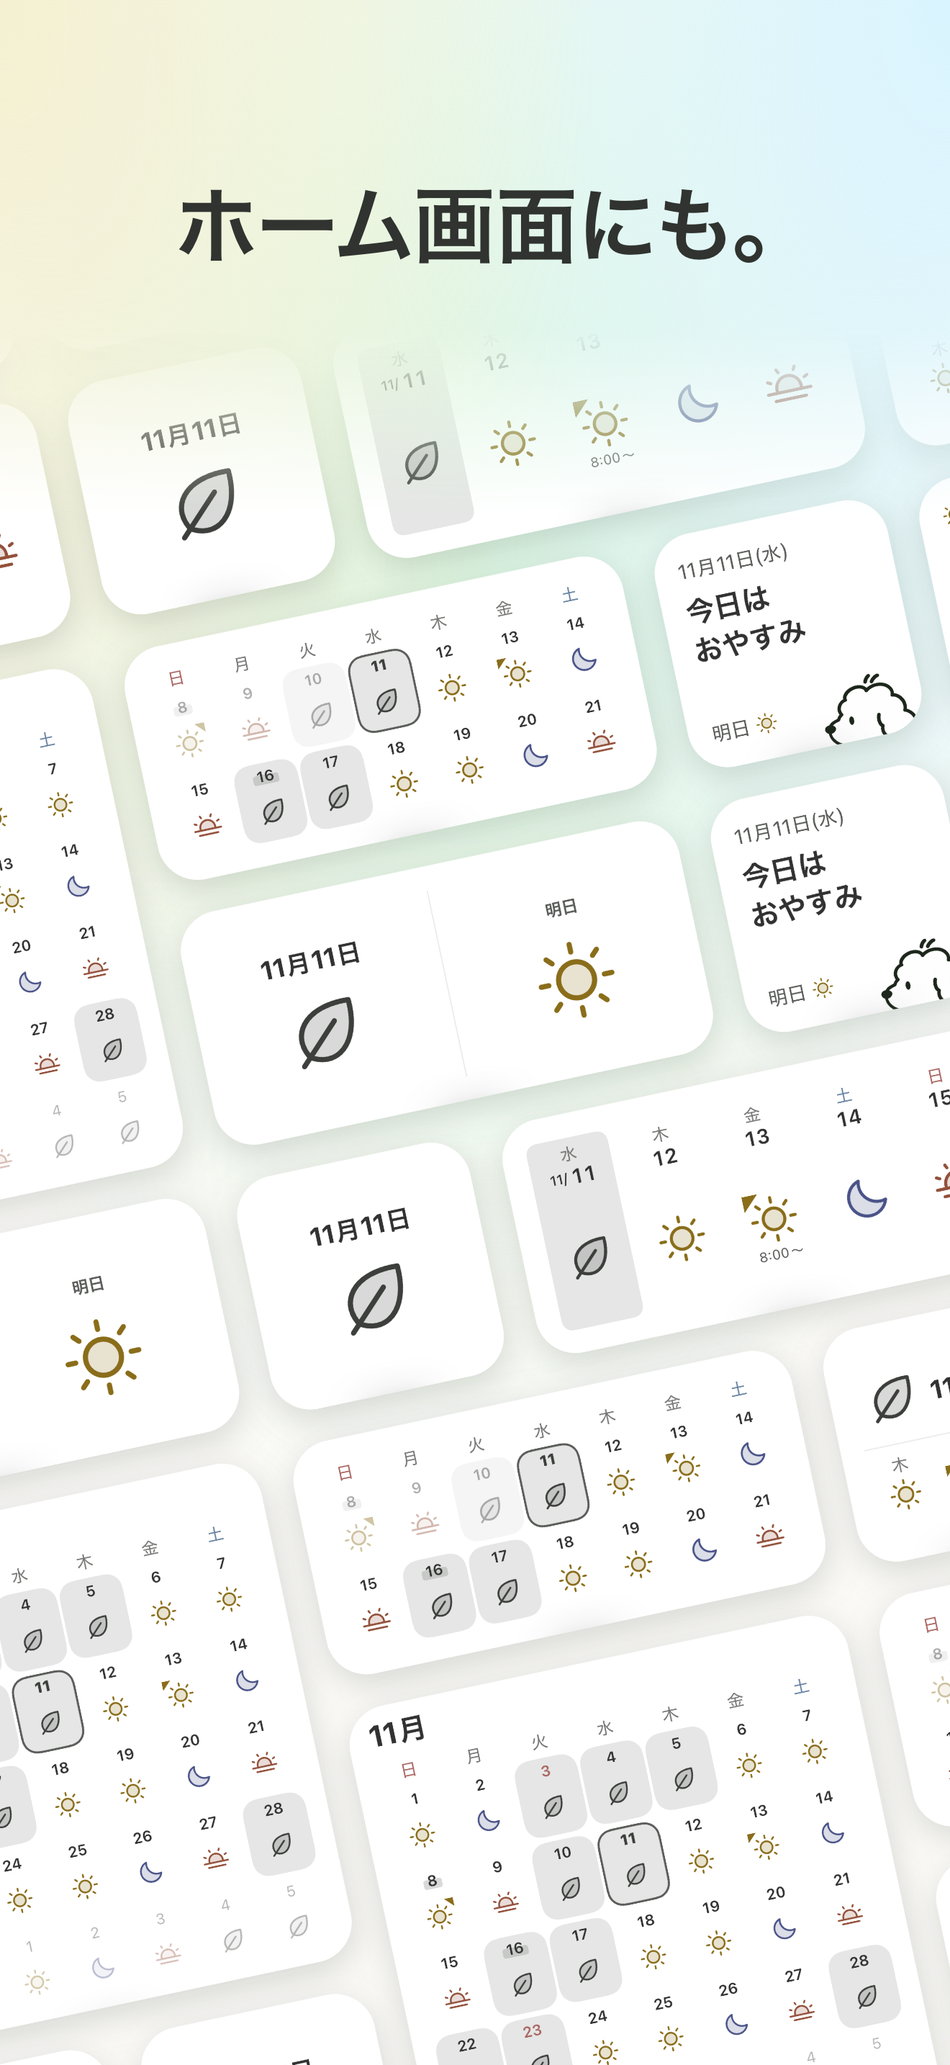
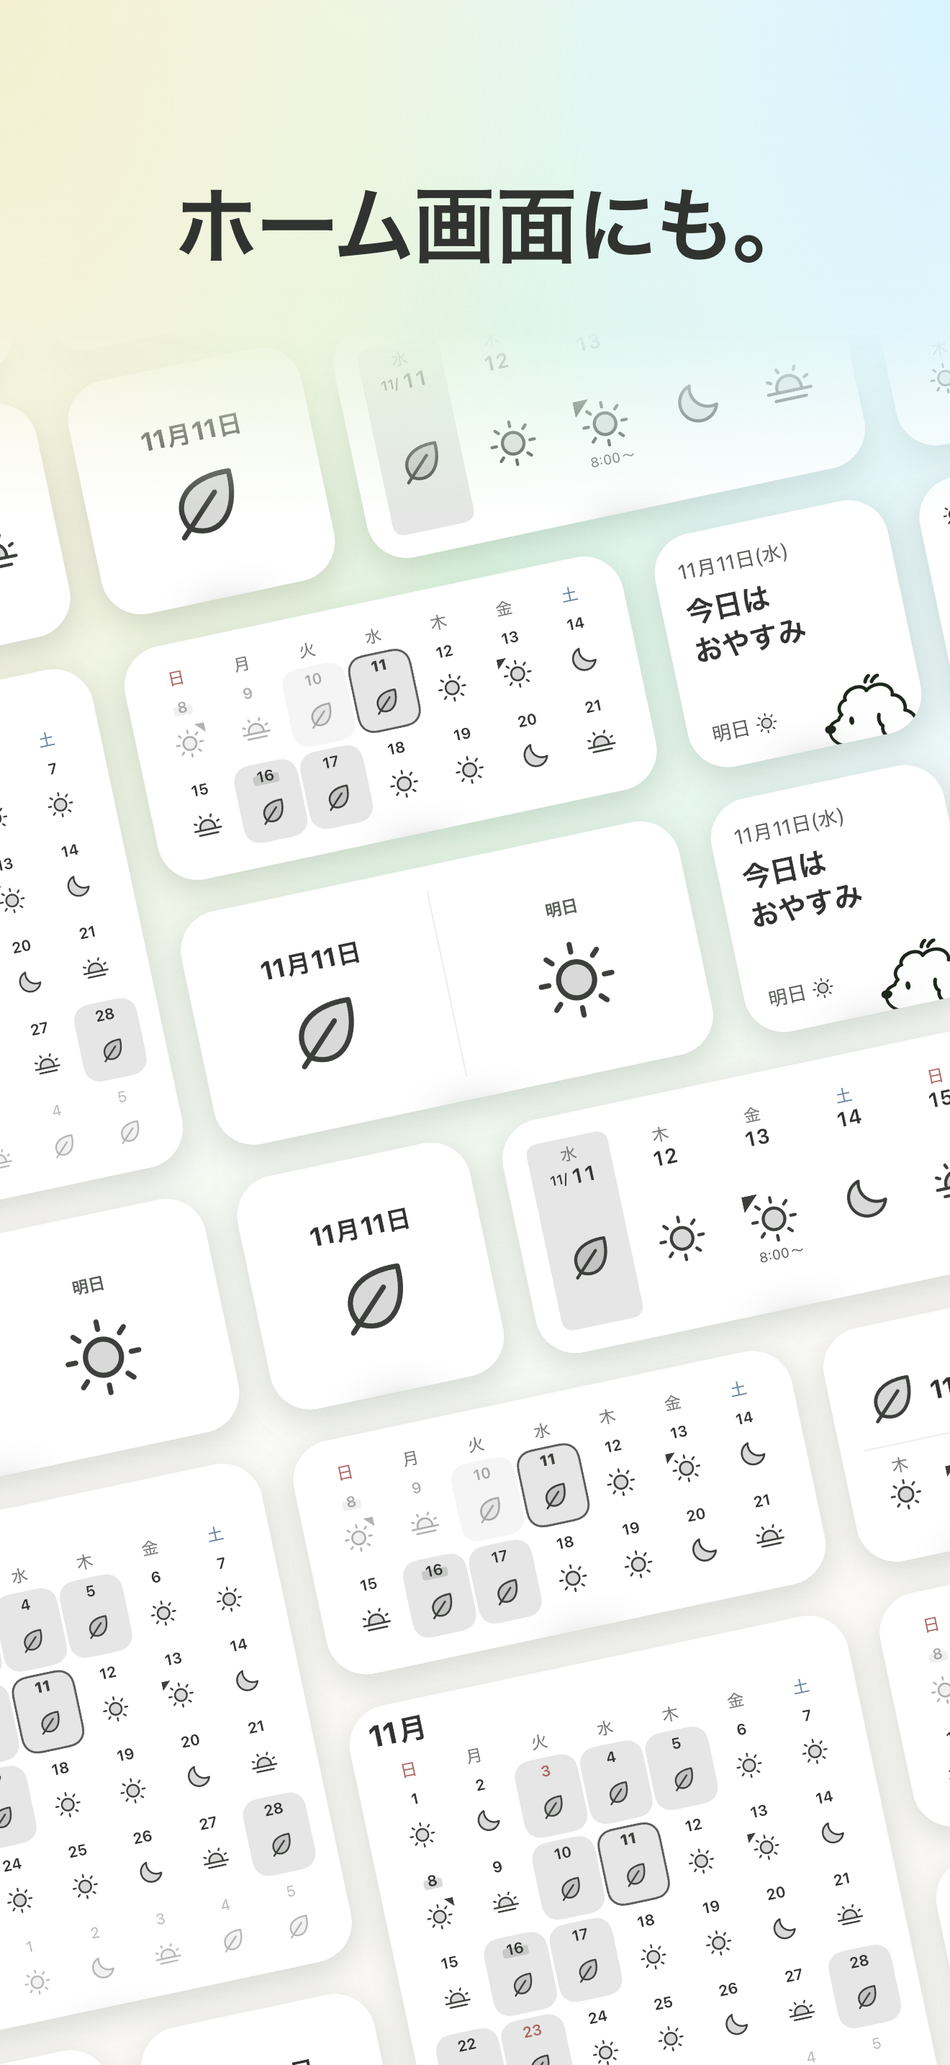
Store screenshots: Google Play's seven pictures beside the App Store's, the wall and the 墨 half in ワントーン, the clock the chat's (#806)
The two platforms' screens go by one set of names, so store-shots.ts names
each shot once, and `mise run store:screenshots` photographs Android's on
the emulator ANDROID_SERIAL names before iOS's. The status bar shows a full
battery off the charger and the seed's time two minutes on, so the chat's
lines and the clock agree without a message's time being made up.

diff --git a/apps/ios/Pochical/PochicalUITests/StoreScreenshotTests.swift b/apps/ios/Pochical/PochicalUITests/StoreScreenshotTests.swift
@@ -3,9 +3,10 @@ import XCTest
 /// The screens the stores' screenshots are drawn from (#806), photographed
 /// in the order the app is walked rather than the stores': the sample
 /// month and 端末カレンダーに追加; 職場のみんな's 一覧 and 全体チャット,
-/// joined as 佐藤; the month again in 墨; the widgets in 墨, each put on
-/// the Home Screen in turn; and last, as it takes days out of the month,
-/// ポチポチ入力 halfway through it. Each is kept as the
+/// joined as 佐藤; the month again in 墨 with シフトの色 at ワントーン, in
+/// black and white; the widgets so too, each put on the Home Screen in
+/// turn; and last, as it takes days out of the month and puts the テーマ
+/// and the colors back, ポチポチ入力 halfway through it. Each is kept as the
 /// file `packages/prototype/src/lib/store-shots.ts` names. Run by
 /// `mise run store:shots:ios`, against the local server it seeds; skipped
 /// without it.
@@ -69,7 +70,7 @@ final class StoreScreenshotTests: XCTestCase {
   @MainActor
   func test3Sumi() throws {
     launch()
-    pick(theme: "墨")
+    pick(theme: "墨", colors: "ワントーン")
     snap("07-calendar-sumi", of: XCUIScreen.main, into: raw)
   }
 
@@ -97,13 +98,13 @@ final class StoreScreenshotTests: XCTestCase {
     }
   }
 
-  /// ポチポチ入力 halfway through the month, in the テーマ the app starts
-  /// with: the sample month's days from the 16th taken out, as they are
+  /// ポチポチ入力 halfway through the month, in the テーマ and the colors
+  /// the app starts with: the sample month's days from the 16th taken out, as they are
   /// before they are entered, and the 16th the day to enter.
   @MainActor
   func test5Entry() throws {
     launch()
-    pick(theme: "ポチカル")
+    pick(theme: "ポチカル", colors: "色分け")
     app.buttons["ポチポチ入力"].tap()
     let month = Calendar.current.component(.month, from: .now)
     let last = Calendar.current.range(of: .day, in: .month, for: .now)!.upperBound - 1
@@ -135,18 +136,20 @@ final class StoreScreenshotTests: XCTestCase {
       .matching(NSPredicate(format: "label == %@", "入力する日付：\(month)月\(day)日")).firstMatch
   }
 
-  /// Picks the テーマ named `theme` in 設定's スタイル, and comes back to
-  /// the calendar in it.
-  @MainActor private func pick(theme: String) {
+  /// Picks the テーマ named `theme` and the シフトの色 named `colors` in
+  /// 設定's スタイル, and comes back to the calendar in them.
+  @MainActor private func pick(theme: String, colors: String) {
     app.tabBars.buttons["設定"].tap()
     let style = app.collectionViews.firstMatch.buttons
       .matching(NSPredicate(format: "label BEGINSWITH 'スタイル'")).firstMatch
     XCTAssertTrue(style.waitForExistence(timeout: 5), "設定 lists スタイル")
     style.tap()
-    let tile = app.buttons[theme]
-    for _ in 0..<4 where !(tile.exists && tile.isHittable) { app.swipeUp() }
-    tile.tap()
-    XCTAssertTrue(tile.isSelected, "\(theme) is the テーマ")
+    for choice in [theme, colors] {
+      let tile = app.buttons[choice]
+      for _ in 0..<4 where !(tile.exists && tile.isHittable) { app.swipeUp() }
+      tile.tap()
+      XCTAssertTrue(tile.isSelected, "\(choice) is picked")
+    }
     app.navigationBars["スタイル"].buttons.firstMatch.tap()
     app.tabBars.buttons["カレンダー"].tap()
     XCTAssertTrue(app.buttons["ポチポチ入力"].waitForExistence(timeout: 5), "the calendar shows")

diff --git a/apps/android/app/src/androidTest/kotlin/app/pochical/StoreScreenshots.kt b/apps/android/app/src/androidTest/kotlin/app/pochical/StoreScreenshots.kt
@@ -25,7 +25,9 @@ import org.junit.runner.RunWith
 /**
  * The screens the stores' screenshots are made of (#806), photographed as they are on an emulator:
  * the sample month as a new user's, who joins the group tools/store-screenshots/seed.ts made as
- * 佐藤. Run by `mise run store:shots:android` (tools/store-screenshots/android.sh), which sets the
+ * 佐藤, each kept under the name packages/prototype/src/lib/store-shots.ts gives it. The last is the
+ * month in 墨 with シフトの色 at ワントーン, in black and white, so every screen before it is in the
+ * テーマ and the colors the app starts with. Run by `mise run store:shots:android` (tools/store-screenshots/android.sh), which sets the
  * emulator up, names the invitation (the argument `invite`) and takes the PNGs from where Gradle
  * pulls them (`additionalTestOutputDir`); skipped in any other run.
  */
@@ -51,7 +53,6 @@ class StoreScreenshots {
     val calendar = By.descContains("、夜勤")
     device.find(calendar)
     photograph("02-calendar")
-    photograph("07-look-default")
 
     // ポチポチ入力, on today rather than the month's first day.
     val today = LocalDate.now().let { "${it.monthValue}月${it.dayOfMonth}日" }
@@ -74,7 +75,7 @@ class StoreScreenshots {
     device.tap(By.text("参加する"), By.text("全体チャット"))
     // The table once the group shows 佐藤's shifts too, sent from this device.
     device.tap(By.text("月で見る"), By.desc(Pattern.compile(".*佐藤：(日勤|夜勤|明け|休み).*")))
-    photograph("05-group")
+    photograph("05-group-shifts")
     device.back(By.text("一覧"))
 
     // The chat from its first line, the words about the mobile battery in the middle.
@@ -89,10 +90,10 @@ class StoreScreenshots {
 
     device.tap(By.text("設定"), By.text("スタイル"))
     device.tap(By.text("スタイル"), By.text("テーマ"))
-    device.tap(By.text("墨"), By.checked(true).hasChild(By.text("墨")))
+    for (choice in listOf("墨", "ワントーン")) device.tap(By.text(choice), By.checked(true).hasChild(By.text(choice)))
     launch()
     device.find(calendar)
-    photograph("07-look-sumi")
+    photograph("07-calendar-sumi")
   }
 
   /** The app opened anew on its calendar, with a debug build's [options] (LaunchOptions). */

diff --git a/packages/prototype/src/lib/store-shots.ts b/packages/prototype/src/lib/store-shots.ts
@@ -1,6 +1,7 @@
 // The stores' screenshots (#806): each is a screen of the real app,
 // photographed by its platform's own UI test into
-// `.build/store-screenshots/<store>` under the name `raw` gives here, and
+// `.build/store-screenshots/<store>` under the name `raw` gives here, the
+// same on both platforms, and
 // drawn on the site's sky under its headline at the store's size by
 // apps/design's /_render/store-shot, which `pnpm --dir apps/design
 // image:store` photographs into `store/screenshots/<store>`.
@@ -9,9 +10,14 @@
 // it takes for an iPhone with Dynamic Island (large display), an iPhone
 // Pro Max's own screen, which it scales down for the smaller iPhones:
 // https://developer.apple.com/help/app-store-connect/reference/app-information/screenshot-specifications
+// Google Play's is the 9:16 it asks of the pictures it features, no side
+// more than twice the other:
+// https://support.google.com/googleplay/android-developer/answer/9866151
+// `widgetRow` is how tall a Home Screen's cell is in its widths, by the
+// platform's small widget (Android's SMALL, WidgetParts.kt).
 export const STORES = {
-  android: { height: 1920, width: 1080 },
-  ios: { height: 2868, width: 1320 },
+  android: { height: 1920, widgetRow: 202 / 179, width: 1080 },
+  ios: { height: 2868, widgetRow: 1, width: 1320 },
 } as const;
 
 export type StoreId = keyof typeof STORES;
@@ -39,7 +45,10 @@ type StoreShot = { headline: readonly string[]; name: string } & (
 );
 
 // The shots in the stores' order, each headline a line an entry. They speak
-// to people on night and rotating shifts.
+// to people on night and rotating shifts. The first three are screens,
+// which Google Play asks its first pictures to show the app by. The wall
+// and the last shot's second screen are in 墨 with シフトの色 at ワントーン,
+// in black and white; every other screen is as the app starts.
 export const STORE_SHOTS = [
   {
     headline: ["勤務表を見ながら、", "ポチポチ。"],

diff --git a/apps/design/src/routes/_tool/[_]render/store-shot.tsx b/apps/design/src/routes/_tool/[_]render/store-shot.tsx
@@ -51,7 +51,7 @@ export const Route = createFileRoute("/_tool/_render/store-shot")({
 
 // Every length but the headline's room is in --u, a hundredth of the
 // picture's width, so each store's picture is laid out alike at its size.
-// A widget's cell on the wall, in them.
+// The width of a widget's cell on the wall, in them.
 const WIDGET_CELL = "calc(var(--u) * 25)";
 
 const styles = {
@@ -159,7 +159,7 @@ function StoreShotPage() {
   if (shot === undefined) {
     return <p>No shot is named {name}.</p>;
   }
-  const { height, width } = STORES[store];
+  const { height, widgetRow, width } = STORES[store];
   return (
     <div
       className={styles.root}
@@ -173,7 +173,11 @@ function StoreShotPage() {
     >
       <PictureSky height="100%" />
       {shot.kind === "wall" && (
-        <Wall folder={shot.raw} widgets={widgets.split(",").filter(Boolean)} />
+        <Wall
+          folder={shot.raw}
+          row={widgetRow}
+          widgets={widgets.split(",").filter(Boolean)}
+        />
       )}
       <h1 className={cx(pictureTitle, styles.headline)}>
         <span>
@@ -222,7 +226,16 @@ const cellsOf = (file: string) => {
 
 // The widgets over and over, each round starting further along so the
 // same two are not neighbors again, until the wall's cells are covered.
-function Wall({ folder, widgets }: { folder: string; widgets: string[] }) {
+// A cell is `row` times as tall as it is wide.
+function Wall({
+  folder,
+  row,
+  widgets,
+}: {
+  folder: string;
+  row: number;
+  widgets: string[];
+}) {
   let cells = 0;
   for (const file of widgets) {
     const { columns, rows } = cellsOf(file);
@@ -241,7 +254,7 @@ function Wall({ folder, widgets }: { folder: string; widgets: string[] }) {
       <div
         className={styles.wallGrid}
         style={{
-          gridAutoRows: WIDGET_CELL,
+          gridAutoRows: `calc(${WIDGET_CELL} * ${row})`,
           gridTemplateColumns: `repeat(${WALL.columns}, ${WIDGET_CELL})`,
         }}
       >

diff --git a/apps/android/app/src/test/kotlin/app/pochical/widgets/WidgetPreviewImages.kt b/apps/android/app/src/test/kotlin/app/pochical/widgets/WidgetPreviewImages.kt
@@ -11,6 +11,7 @@ import android.widget.FrameLayout
 import androidx.compose.ui.unit.DpSize
 import app.pochical.design.Theme
 import app.pochical.kit.DeviceSettings
+import app.pochical.kit.Look
 import app.pochical.kit.Week
 import java.io.File
 import java.time.LocalDate
@@ -30,7 +31,8 @@ import org.robolectric.annotation.GraphicsMode
  * - The pictures the widget picker shows of each kind before Android 15 (spec/widgets.md, In the
  *   widget gallery), as `android:previewImage`, in light and in dark (`drawable-night`):
  *   `mise run android:widget-previews`, into the app's res (WIDGET_PREVIEWS_OUT).
- * - The stores' wall of widgets (#806), each kind at each size it offers, in 墨 and light:
+ * - The stores' wall of widgets (#806), each kind at each size it offers, in 墨 with シフトの色 at ワントーン and light,
+ *   in black and white:
  *   `mise run store:shots:android`, into STORE_WIDGETS_OUT.
  */
 @RunWith(RobolectricTestRunner::class)
@@ -64,9 +66,9 @@ class WidgetPreviewImages {
     val out = System.getenv("STORE_WIDGETS_OUT")
     assumeTrue("Only when asked for, by mise run store:shots:android", out != null)
     val sizes = mapOf(SMALL to "small", MEDIUM to "medium", LARGE to "large")
-    val sumi = DeviceSettings(themeId = Theme.Sumi.id)
+    val sumi = DeviceSettings(themeId = Theme.Sumi.id, look = Look(colored = false))
     for ((name, widget) in kinds) {
-      for (size in widget.previews) draw(widget, size, sumi, dark = false, File(checkNotNull(out), "$name-${sizes.getValue(size)}.png"))
+      for (size in widget.previews) draw(widget, size, sumi, dark = false, File(checkNotNull(out), "${name.replace('_', '-')}-${sizes.getValue(size)}.png"))
     }
   }
 

diff --git a/apps/design/tests/store-screenshots.test.ts b/apps/design/tests/store-screenshots.test.ts
@@ -3,6 +3,7 @@ import path from "node:path";
 
 import {
   FEATURE_GRAPHIC,
+  HEADLINE_SHARE,
   STORE_SHOTS,
   STORES,
   storeShotFile,
@@ -11,8 +12,8 @@ import { expect, test } from "vitest";
 
 // The stores' pictures (store/) are checked in, drawn by
 // `mise run store:screenshots`: every shot of store-shots.ts has its
-// picture at the size its store asks for, without the alpha channel the
-// App Store refuses.
+// picture for each store at the size it asks for, without the alpha
+// channel the App Store refuses.
 const store = path.join(import.meta.dirname, "../../../store");
 
 // A PNG's size and whether it has an alpha channel, from its IHDR chunk,
@@ -27,8 +28,7 @@ const header = (file: string) => {
   };
 };
 
-// Android's pictures come with its screens.
-const drawn = (["ios"] as const).flatMap((id) =>
+const drawn = (["ios", "android"] as const).flatMap((id) =>
   STORE_SHOTS.map((shot) => ({
     file: path.join("screenshots", id, storeShotFile(shot.name)),
     size: STORES[id],
@@ -48,4 +48,15 @@ test.each([
     height: size.height,
     width: size.width,
   });
+});
+
+// Google Play's own asks of a screenshot, kept by the App Store's too:
+// https://support.google.com/googleplay/android-developer/answer/9866151
+test("the first three shots show the app, under a headline of a fifth at most", () => {
+  expect(STORE_SHOTS.slice(0, 3).map((shot) => shot.kind)).toEqual([
+    "screen",
+    "screen",
+    "screen",
+  ]);
+  expect(HEADLINE_SHARE).toBeLessThanOrEqual(0.2);
 });

diff --git a/apps/design/scripts/store-images.ts b/apps/design/scripts/store-images.ts
@@ -4,7 +4,7 @@ import { fileURLToPath } from "node:url";
 
 // Draws the stores' pictures (#806) from the screens each platform's UI
 // test photographed into .build/store-screenshots/<store>
-// (`mise run store:shots:ios`): each shot of @pochical/prototype's
+// (`mise run store:shots:ios`, `mise run store:shots:android`): each shot of @pochical/prototype's
 // lib/store-shots.ts from /_render/store-shot into
 // store/screenshots/<store>, and Google Play's feature graphic into
 // store/feature-graphic.png, on a dev server of its own. A store whose
@@ -63,14 +63,14 @@ await photographDevServer(
   async ({ browser, origin }) => {
     const photograph = async (
       search: Record<string, string>,
-      size: { height: number; width: number },
+      { height, width }: { height: number; width: number },
       output: string,
       raw?: string
     ) => {
       const page = await browser.newPage({
         colorScheme: "light",
         deviceScaleFactor: 1,
-        viewport: size,
+        viewport: { height, width },
       });
       if (raw !== undefined) {
         await page.route(`**${RAW_PATH}**`, async (route) => {

diff --git a/AGENTS.md b/AGENTS.md
@@ -14,7 +14,7 @@ Pochical is a monorepo: native SwiftUI (`apps/ios`) and Jetpack Compose (`apps/a
   - ライセンス's list of libraries is generated by each app's build, never checked in (spec/calendar.md, ライセンス): on iOS by LicenseList's build plugin from the resolved Swift packages' checkouts (`PLL_SOURCE_PACKAGES_PATH` names them when `-clonedSourcePackagesDirPath` moves them, as CI's `ios` job does), on Android by AboutLibraries' Gradle plugin into each variant's `res/raw/aboutlibraries.json`, with what the app carries besides its dependencies in `apps/android/app/aboutlibraries/libraries`.
   - Icons: the marks' paths from Phosphor via `pnpm --dir design icon:marks`; the iOS app icons and the widgets' `PeekingPoodle` via `pnpm --dir packages/prototype icon:ios`, and Android's launcher icon (its `mipmap` layers and the background color) and the Play listing's 512-pixel icon (`apps/android/app/src/main/ic_launcher-playstore.png`) and the widgets' `widget_poodle` via `icon:android`, both painting with `scripts/app-icon.ts` as the site icon's `icon:site` does.
   - try's installable app (`apps/try/public/app`): the icons, iOS's launch images and the web app manifest via `pnpm --dir apps/try icon:app` (`scripts/app-assets.ts`), and the manifest's screenshots, the screens `src/lib/app-screenshots.ts` names, via `image:screens`, which photographs the app on a dev server of its own as apps/design's `image:share` photographs the share image, both through `@pochical/prototype`'s `scripts/photograph.ts`. A change to that list runs both.
-  - The stores' pictures (`store/screenshots/<store>`, and Google Play's feature graphic, `store/feature-graphic.png`): the shots, their headlines and each store's size in `@pochical/prototype`'s `lib/store-shots.ts` → `mise run store:screenshots`. It photographs the real app's screens (`store:shots:ios`: `StoreScreenshotTests` in a simulator of its own, `pochical-store`, against a server it starts and `tools/store-screenshots/seed.ts` seeds, into `.build/store-screenshots`), then draws each on the site's sky under its headline (`store:images`: apps/design's `image:store`, which photographs `/_render/store-shot` as `image:share` does the share image). A change to that page or to a headline runs `store:images` alone, the screens still in `.build`; a change to the app's screens runs both.
+  - The stores' pictures (`store/screenshots/<store>`, and Google Play's feature graphic, `store/feature-graphic.png`): the shots, their headlines and each store's size in `@pochical/prototype`'s `lib/store-shots.ts` → `ANDROID_SERIAL=emulator-<port> mise run store:screenshots`. It photographs the real apps' screens into `.build/store-screenshots/<store>`, under the same names on both platforms, each against a server it starts and `tools/store-screenshots/seed.ts` seeds (`store:shots:android`: `StoreScreenshots` on the running emulator `ANDROID_SERIAL` names, never a phone, and the widgets drawn by `WidgetPreviewImages` with no device; `store:shots:ios`: `StoreScreenshotTests` in a simulator of its own, `pochical-store`), then draws each on the site's sky under its headline (`store:images`: apps/design's `image:store`, which photographs `/_render/store-shot` as `image:share` does the share image, for each store whose screens are there). The status bar's time is the seed's, two minutes on, so the chat's lines and the clock agree; the wall of widgets and the last shot's second screen are in 墨 with シフトの色 at ワントーン. A change to that page or to a headline runs `store:images` alone, the screens still in `.build`; a change to an app's screens runs its `store:shots:*` and `store:images`.
   - Workers' types: each Worker's `wrangler.jsonc` and the wrangler in `pnpm-lock.yaml`, with the workerd it pins → `mise run gen:worker-types`, which runs every workspace's `cf-typegen` (into `worker-configuration.d.ts` in `apps/server`, `apps/admin` and `apps/web`). A wrangler bump regenerates them too; CI runs `mise run worker-types:check`. A Worker with a `cf-typegen` and no secrets still declares `"secrets": { "required": [] }`, so its types never come from a computer's `.dev.vars` or `.env`.
   - SQL schemas are Drizzle and their migrations are generated, never written: D1 `apps/server/src/db/schema.ts` (`mise run db:generate -- --name <what>`; better-auth's tables via `mise run auth:schema` first), the Group DO `group-do-schema.ts` (`mise run group-do:generate`), the User DO `user-do-schema.ts` (`mise run user-do:generate`). CI runs `mise run db:check`.
 - The stores' listings are in `store/` (`store/README.md`): the texts of the App Store and Google Play, and the answers to their forms (`declarations.md`), entered into App Store Connect and Play Console by hand. `apps/design`'s tests hold each text to its store's limit; an answer changes in the PR that changes what the app does.

diff --git a/store/README.md b/store/README.md
@@ -18,6 +18,16 @@ The listing speaks to people who work nights and rotating shifts, young nurses f
 
 The pages the forms ask for are the site's: サポート `https://pochical.app/support`, マーケティング `https://pochical.app`, プライバシーポリシー `https://pochical.app/privacy`, アカウントの削除 `https://pochical.app/account/delete`.
 
+## The pictures
+
+| File | App Store Connect | Play Console |
+| --- | --- | --- |
+| `screenshots/ios/01-entry.png` … `07-themes.png` | iPhone 6.9インチのスクリーンショット (1320×2868) |  |
+| `screenshots/android/01-entry.png` … `07-themes.png` |  | スマートフォンのスクリーンショット (1080×1920) |
+| `feature-graphic.png` |  | フィーチャー グラフィック (1024×500) |
+
+They are drawn from the real apps, in the listing's order, and never edited by hand: `ANDROID_SERIAL=emulator-<port> mise run store:screenshots` photographs each app's screens (Android's on that running emulator, iOS's in a simulator of its own) and draws each under its headline. The shots, their headlines and the sizes are in `packages/prototype/src/lib/store-shots.ts`; after a change to a headline alone, `mise run store:images` draws them again from the screens last photographed. `apps/design/tests/store-screenshots.test.ts` holds each picture to its store's size.
+
 `declarations.md` holds the answers to the forms beside the listing: what data is collected, the ratings' questions, the notes for review.
 
 ## What the words keep to
